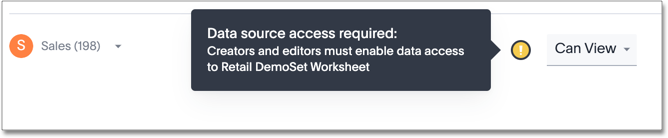
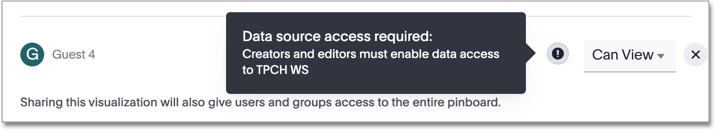
bulk share and release note

diff --git a/index.html b/index.html
@@ -20,7 +20,7 @@ title: ThoughtSpot Cloud Documentation
       <a href="{{ "/admin/ts-cloud/business-user.html "| prepend: site.baseurl }}">Business User</a></p>
     <p class="topicLink">
       <a href="{{ "/admin/ts-cloud/business-user-onboarding.html "| prepend: site.baseurl }}">Onboard</a><br/>
-      <a href="{{ "/end-user/thoughtspot-one/thoughtspot-one-homepage.html "| prepend: site.baseurl }}">Home page </a> <br/>
+      <a href="{{ "/end-user/thoughtspot-one/thoughtspot-one-homepage.html "| prepend: site.baseurl }}">Home page <span class="badge badge-update">Update</span></a> <br/>
       <a href="{{ "/admin/ts-cloud/pinboards.html "| prepend: site.baseurl }}"> Pinboards and Answers</a><br/>
       <a href="{{ "/end-user/search/search-overview.html "| prepend: site.baseurl }}">ThoughtSpot Search</a><br/>
       <a href="{{ "/end-user/search/search-answers.html "| prepend: site.baseurl }}">&nbsp;&nbsp;&nbsp;Search Answers <span class="badge badge-update">Update</span> </a> <br/>

diff --git a/_includes/content/share-answersandpinboards-specify-permissions.md b/_includes/content/share-answersandpinboards-specify-permissions.md
@@ -4,32 +4,36 @@
 
 4. Enter users or groups with whom you want to share this object in the text box.
 
-    ![Enter users or groups]({{ site.baseurl }}/images/sharing-textbox.png "Enter users or groups")
+    Note that you can only enter email addresses whose domains are in your list of allowed domains. These domains appear when you click on the info button ![]({{ site.baseurl }}/images/icon-information-10px.png){: .inline}.
 
-    Note that you can only enter whitelisted email addresses. Whitelisted email domains appear when you click on the info button ![]({{ site.baseurl }}/images/icon-info.png){: .inline}.
-
-    {% include tip.html content="If you want to hide the whitelisted email domains for your company, or otherwise customize them, contact ThoughtSpot support." %}
+    {% include tip.html content="If you want to hide the allowed email domains for your company, or otherwise customize them, contact ThoughtSpot support." %}
 
 5. Configure the level of access by selecting from the drop-down list. You can select:
     -   **Can View** to provide read-only access. If the user doesn't have access to the underlying worksheet, they can only view the shared object.
     -   **Can Edit** to allow modification. Enables renaming or deleting the shared object. If a user with edit privileges modifies a shared object, the object saves their changes.
 
-    ![Specify permissions]({{ site.baseurl }}/images/sharing-permissions.png "Specify permissions")
+6. If the selected group or user does not have access to the underlying data, you must enable access to the worksheet, view, or table. A black warning symbol appears when you try to share with a user who does not have underlying data access. If you click on it, it tells you to enable access:
 
-    If the selected group or user does not have access to the underlying data, you must enable access to the worksheet, view, or table. A yellow warning symbol ![]({{ site.baseurl }}/images/icon-warning-yellow-20px.png){: .inline} appears. If you click on it, it tells you to enable access:
+    ![Warning: enable data access]({{ site.baseurl }}/images/sharing-enabledata.png "Warning: enable data access")
 
-    ![Enable data access]({{ site.baseurl }}/images/sharing-enabledata.png "Enable data access")
+    {: id="share-underlying-data"}
+    If you own the underlying data source, you can enable access through the sharing dialog box. If you do not own the data source, ThoughtSpot emails the owner of the data source or your ThoughtSpot administrator to ask them to share the data.
 
-    If you own the underlying data source, refer to [share uploaded data]({{ site.baseurl }}/end-user/data-view/share-user-imported-data.html). If you do not own the data source, ThoughtSpot emails the owner of the data source or your ThoughtSpot administrator to ask them to share the data.
+    To enable access, select **Give view access to underlying data sources** at the bottom of the dialog box. You can click on the arrow to view the data sources.
 
-6. To stop sharing with a user or group, click the **x** icon ![]({{ site.baseurl }}/images/icon-delete-20px.png){: .inline}.
+    ![Enable data access]({{ site.baseurl }}/images/sharing-data-source-access.png "Enable data access")
 
-    ![Stop sharing]({{ site.baseurl }}/images/sharing-delete.png "Stop sharing")
+    After you enable access, the warning symbol turns into a green checkmark.
 
-6. You can send an email notification and an optional message:
+6. To stop sharing with a user or group, click the **x** icon next to the **Permissions** dropdown.
 
-    ![Send notification]({{ site.baseurl }}/images/sharing-notifmessage.png "Send notification")
+6. You can choose to send an email notification and an optional message.
+
+5. You can also copy a direct link to the Answer, Pinboard, or visualization within a Pinboard that you are sharing, and separately send that link to users after you share the object with them. Simply click the **Copy link** button at the bottom of the sharing dialog box.
+
+    {: id="share-direct-link"}
+    Note that sending users this link does not share the object with them. You must also share the object by clicking the **Share** button at the bottom of the dialog box.
+
+    ![Share an object and send the link to users you shared with]({{ site.baseurl }}/images/share-copy-link.png "Share an object and send the link to users you shared with")
 
 6. Click **Share**.
-
-    ![Share your Pinboard or Answer]({{ site.baseurl }}/images/sharing-share.png "Share your Pinboard or Answer")

diff --git a/_includes/content/new-features-cloud-release.md b/_includes/content/new-features-cloud-release.md
@@ -27,6 +27,14 @@ The latest release of ThoughtSpot Cloud contains several new and enhanced featur
 <h3><a id="mar-cloud-business-user"></a>For the Business User</h3>
 
 <dl>
+
+<dlentry id="bulk-share">
+<dt>Bulk share objects from the ThoughtSpot One home page</dt>
+<dd><p>You can now share multiple objects at a time from the ThoughtSpot One home page. Refer to <a href="{{ site.baseurl }}/end-user/thoughtspot-one/thoughtspot-one-homepage.html">ThoughtSpot One home page</a>.</p>
+<p>This new home page is part of ThoughtSpot One. ThoughtSpot One may be off in your environment. To enable ThoughtSpot One, <a href="{{ site.baseurl }}/admin/misc/contact.html">contact ThoughtSpot Support.</a></p></dd>
+</dlentry>
+
+
 <dlentry id="details-panel">
 <dt>Frequent metrics and attributes in the <strong>Details</strong> panel</dt>
 <dd><p>The <strong>Details</strong> panel that appears when you click on a Pinboard visualization while searching across your existing Answers and Pinboards now lists frequent metrics and attributes for that Pinboard. You can determine if a Pinboard search result is useful for you based on the metrics and attributes used most often in that Pinboard.</p>

diff --git a/_end-user/thoughtspot-one/thoughtspot-one-homepage.md b/_end-user/thoughtspot-one/thoughtspot-one-homepage.md
@@ -107,6 +107,6 @@ To bulk share the objects that appear on your home page with other users and gro
 1. Select the empty boxes next to the names of the objects you would like to share.
     Alternatively, you can select each object on the page, by selecting the empty box next to the word **Name** at the top left of the screen, under the filter bar.
 
-2. Select **Share** ![sharing icon]({{ site.baseurl }}/images/icon-share copy-20px.png "sharing-icon"){: .inline}, above the list of objects.
+2. Select **Share** ![sharing icon]({{ site.baseurl }}/images/icon-share-10px.png "sharing-icon"){: .inline}, above the list of objects.
 
 {% include content/share-answersandpinboards-specify-permissions.md %}
